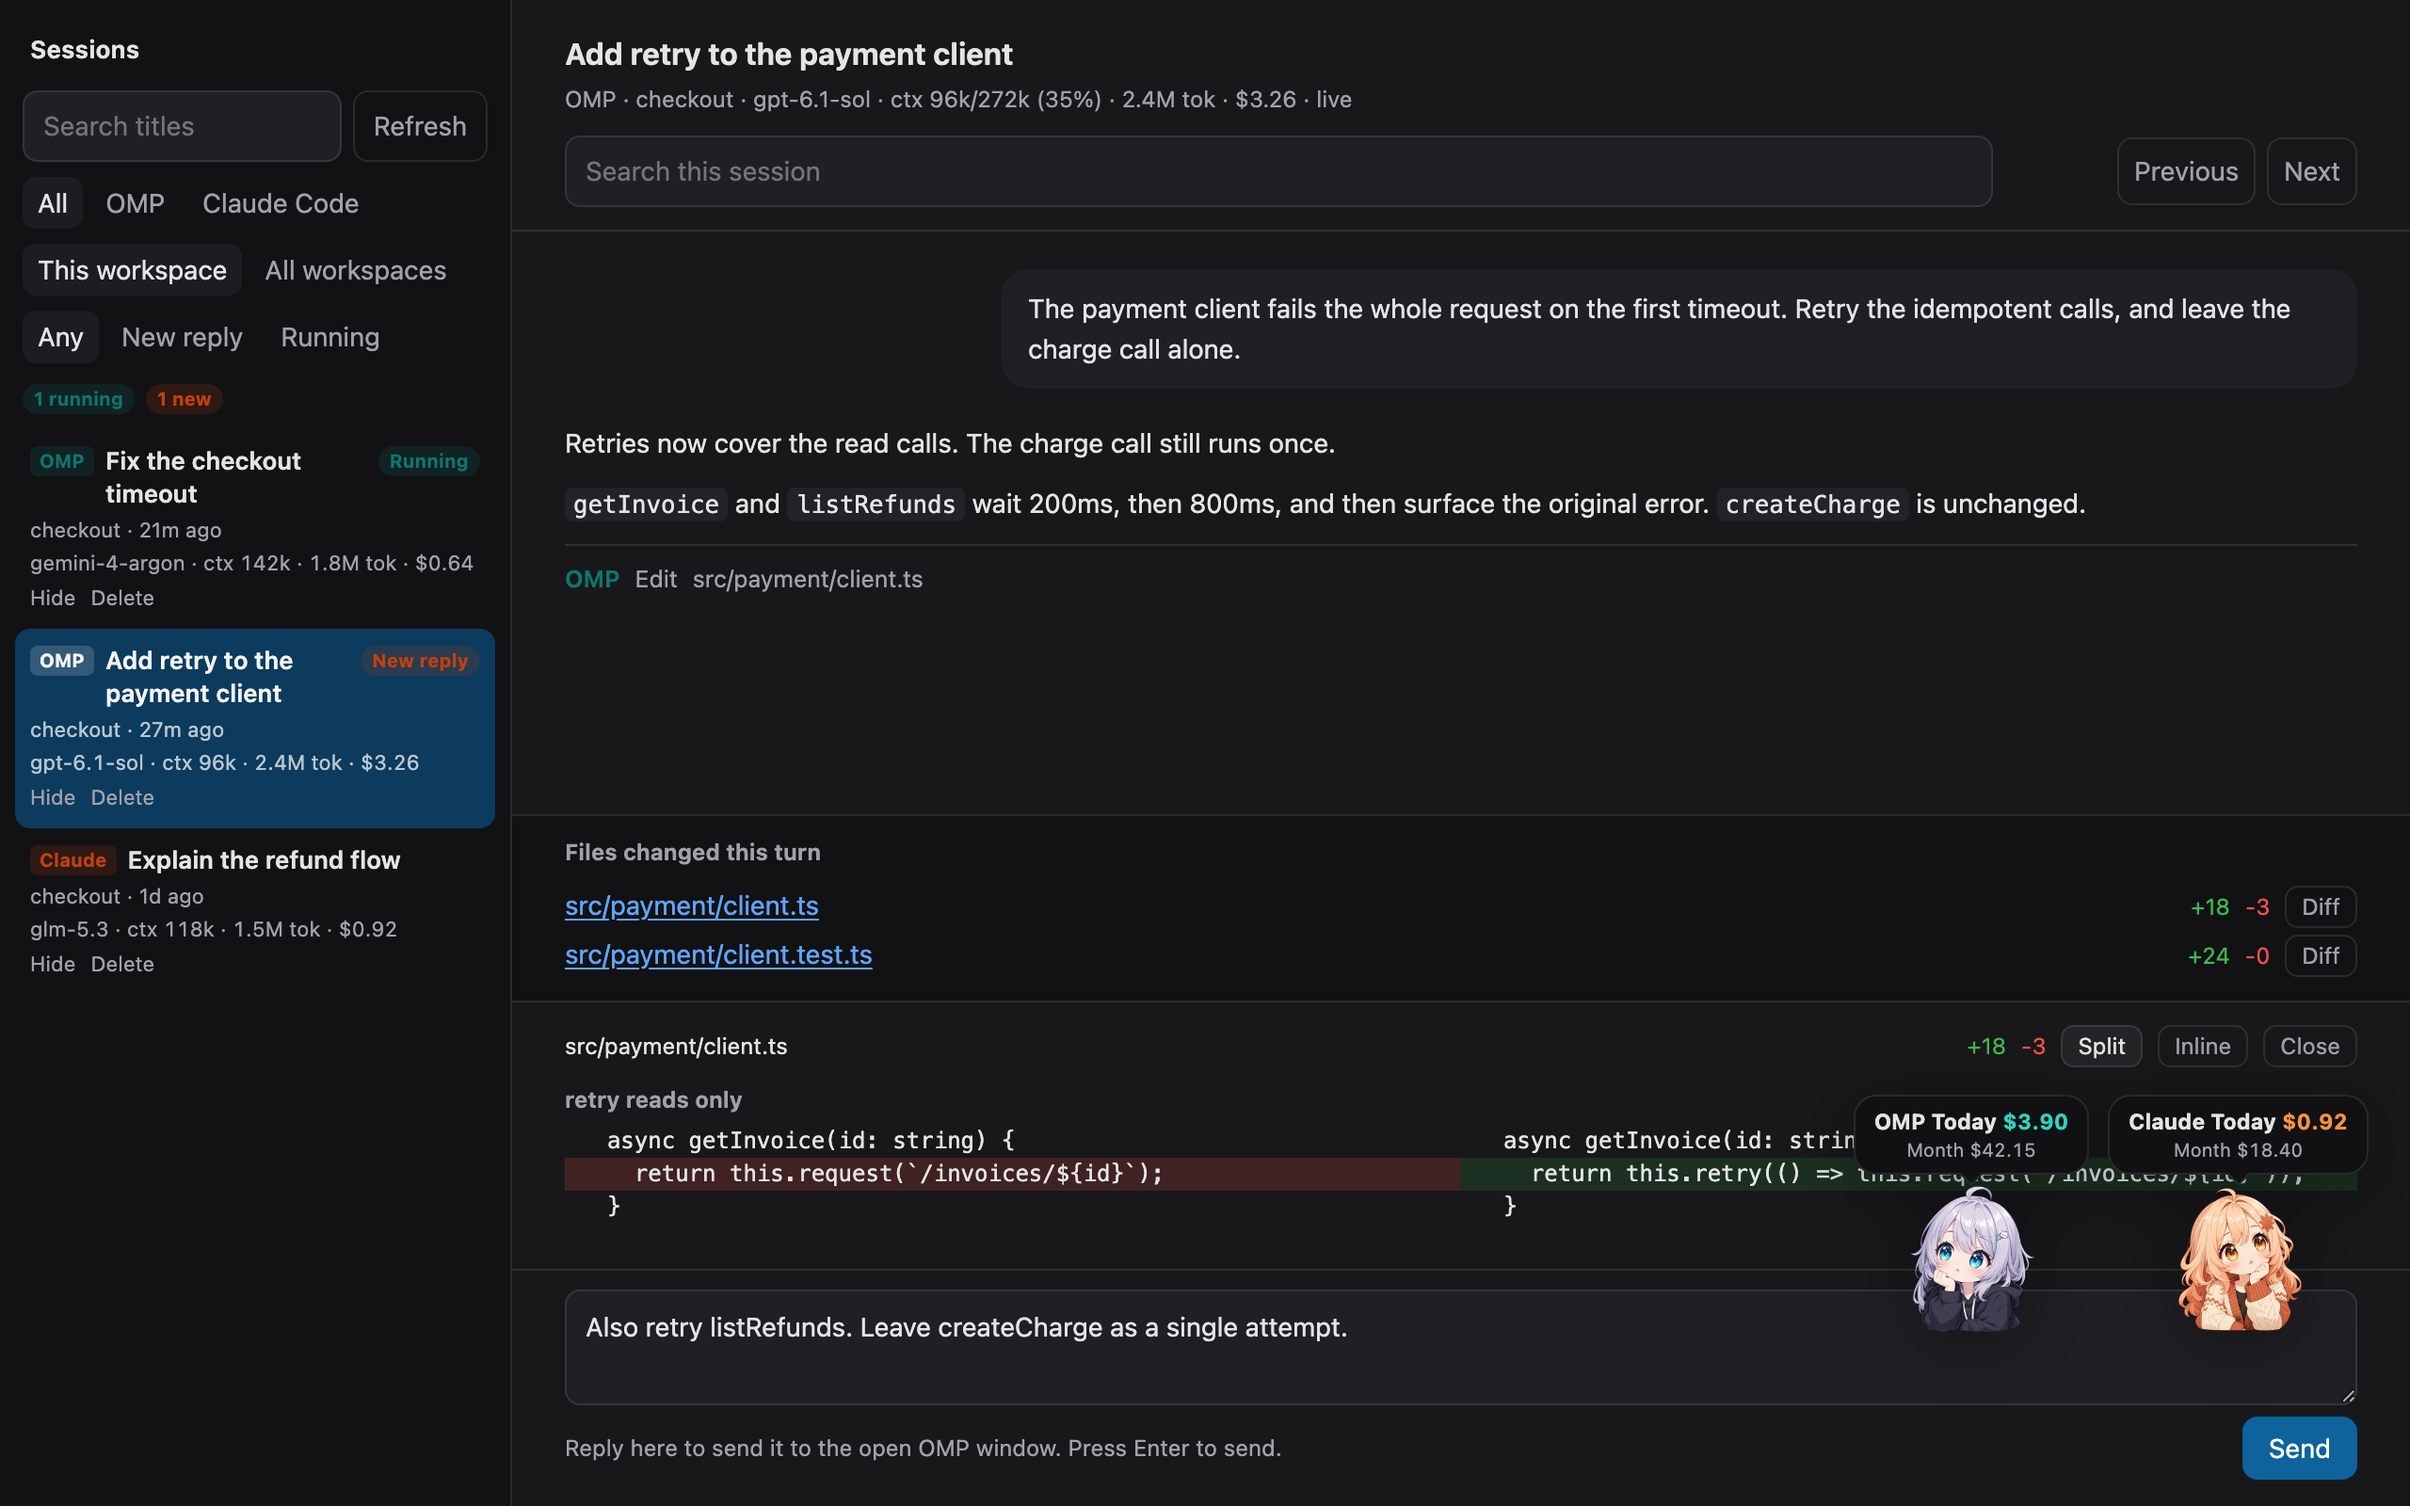
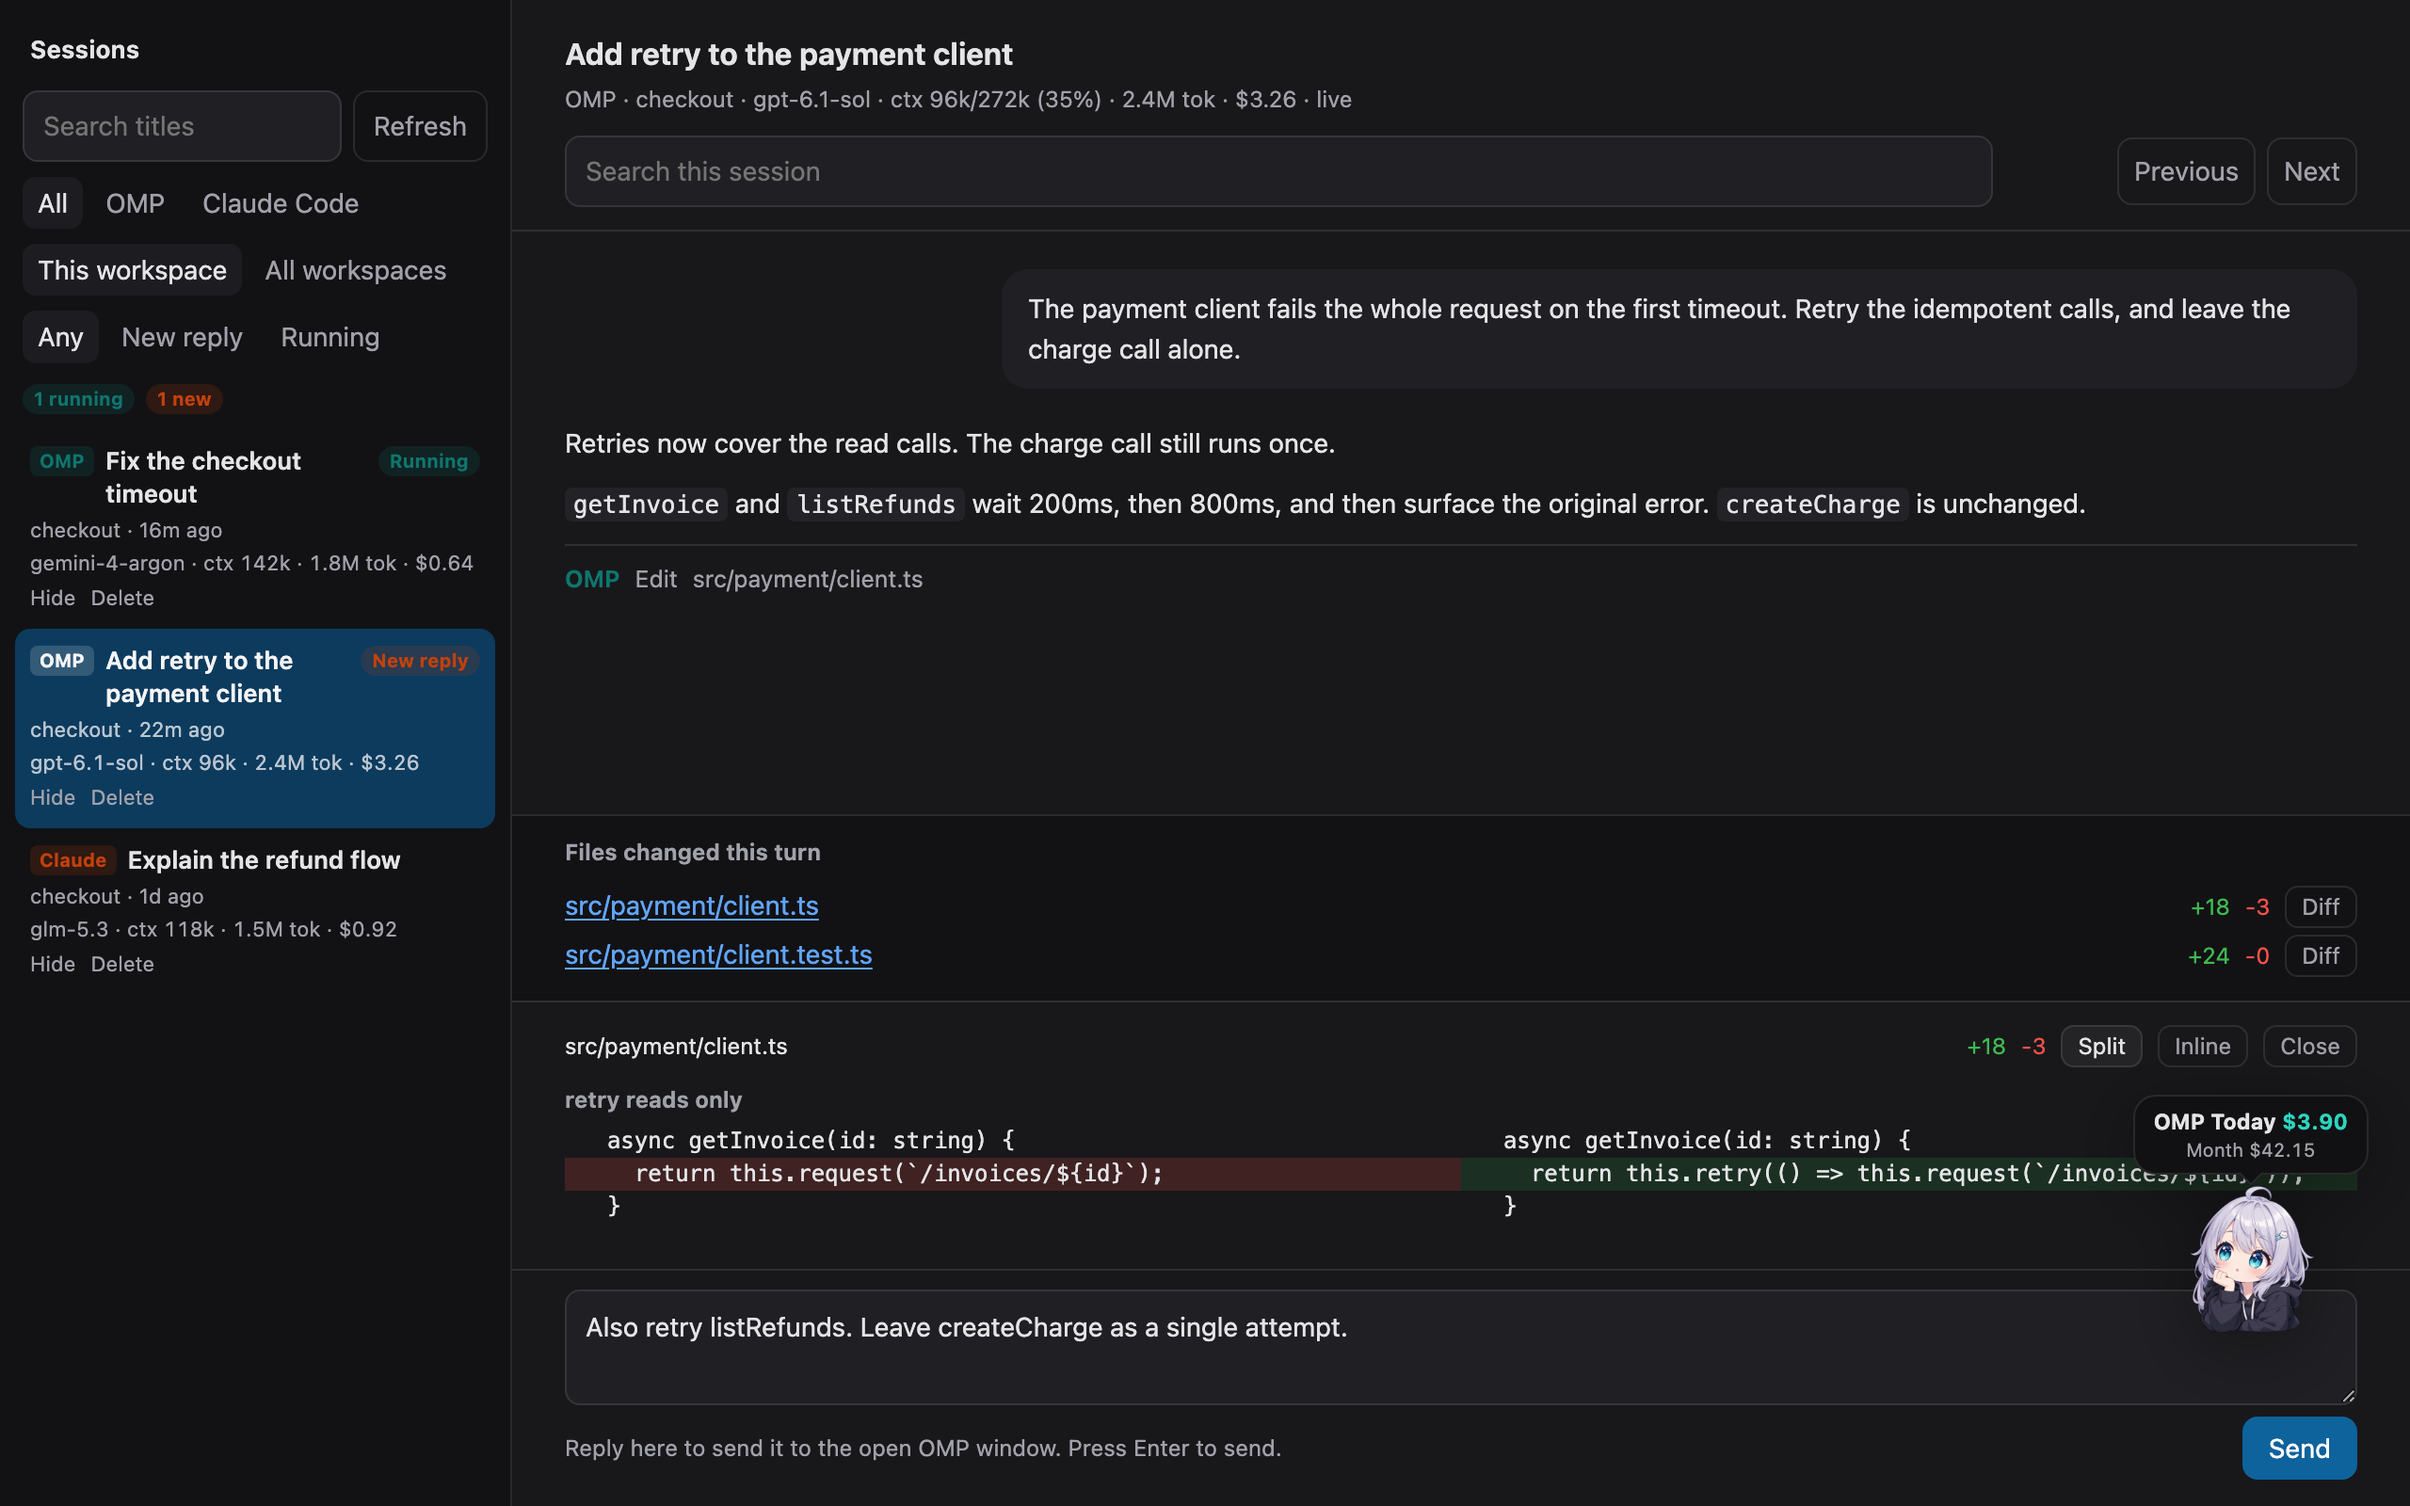
Show OMP-tan for OMP sessions and Claude-tan for Claude sessions by default.

Changed region(s): [[0.75, 0.7188, 0.9688, 0.9062]]

diff --git a/media/panel.js b/media/panel.js
@@ -1257,9 +1257,10 @@ function visibleMascotSources() {
   if (mode === "omp") return ["omp"];
   if (mode === "claude") return ["claude"];
   if (mode === "both") return ["omp", "claude"];
-  if (state.source === "omp") return ["omp"];
-  if (state.source === "claude") return ["claude"];
-  return ["omp", "claude"];
+  const selected = state.sessions.find((item) => item.key === state.selected);
+  if (selected && (selected.source === "omp" || selected.source === "claude")) return [selected.source];
+  if (state.source === "omp" || state.source === "claude") return [state.source];
+  return [state.sessions[0]?.source === "claude" ? "claude" : "omp"];
 }
 
 function formatSpendAmount(amount) {
@@ -1375,7 +1376,7 @@ function openMascotMenu(clientX, clientY) {
   if (!mascotMenu) return;
   mascotMenu.replaceChildren();
   const modes = [
-    { id: "auto", label: "Show: Auto (follow filter)" },
+    { id: "auto", label: "Show: Auto (follow session)" },
     { id: "both", label: "Show: Both (OMP & Claude)" },
     { id: "claude", label: "Show: Claude-tan only" },
     { id: "omp", label: "Show: OMP-tan only" },
